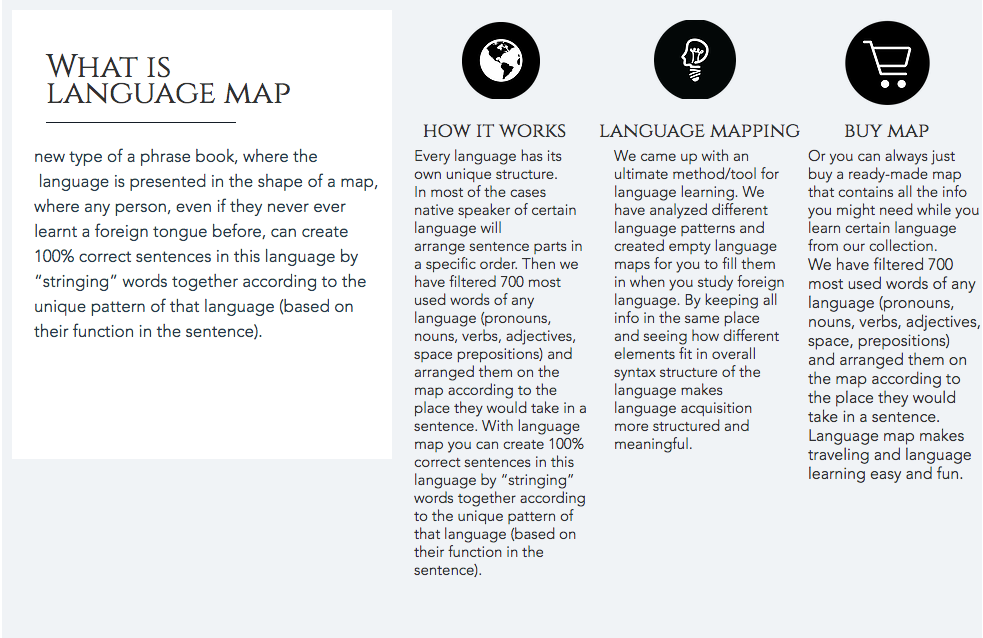
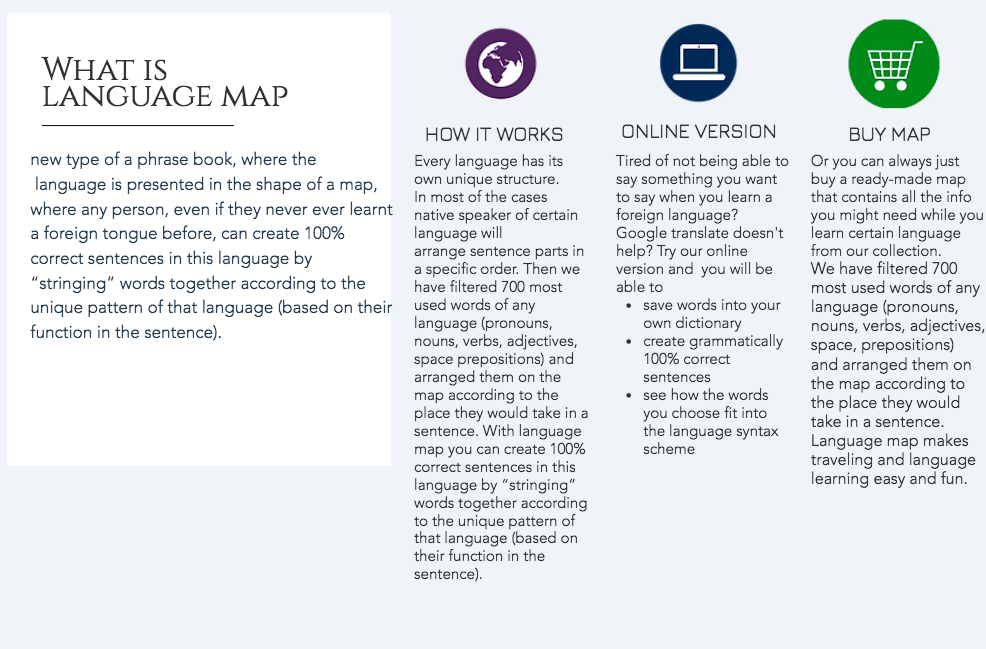
online

Changed region(s): [[0.0305, 0.0298, 0.824, 0.9232], [0.824, 0.0298, 1.0, 0.7743], [0.0305, 0.0893, 0.3052, 0.2085]]

diff --git a/index.html b/index.html
@@ -86,7 +86,7 @@
 <a href="howitworks.html" class="btn btn-default" role="button">read more</a>
 </div>
 <div class=button2>
-<a href="languagemapping.html" class="btn btn-default" role="button">download pdf</a>
+<a href="languagemapping.html" class="btn btn-default" role="button">Try online</a>
 </div>
 <div class=button3>
 <a href="buymap.html" class="btn btn-default" role="button">buy map</a>
